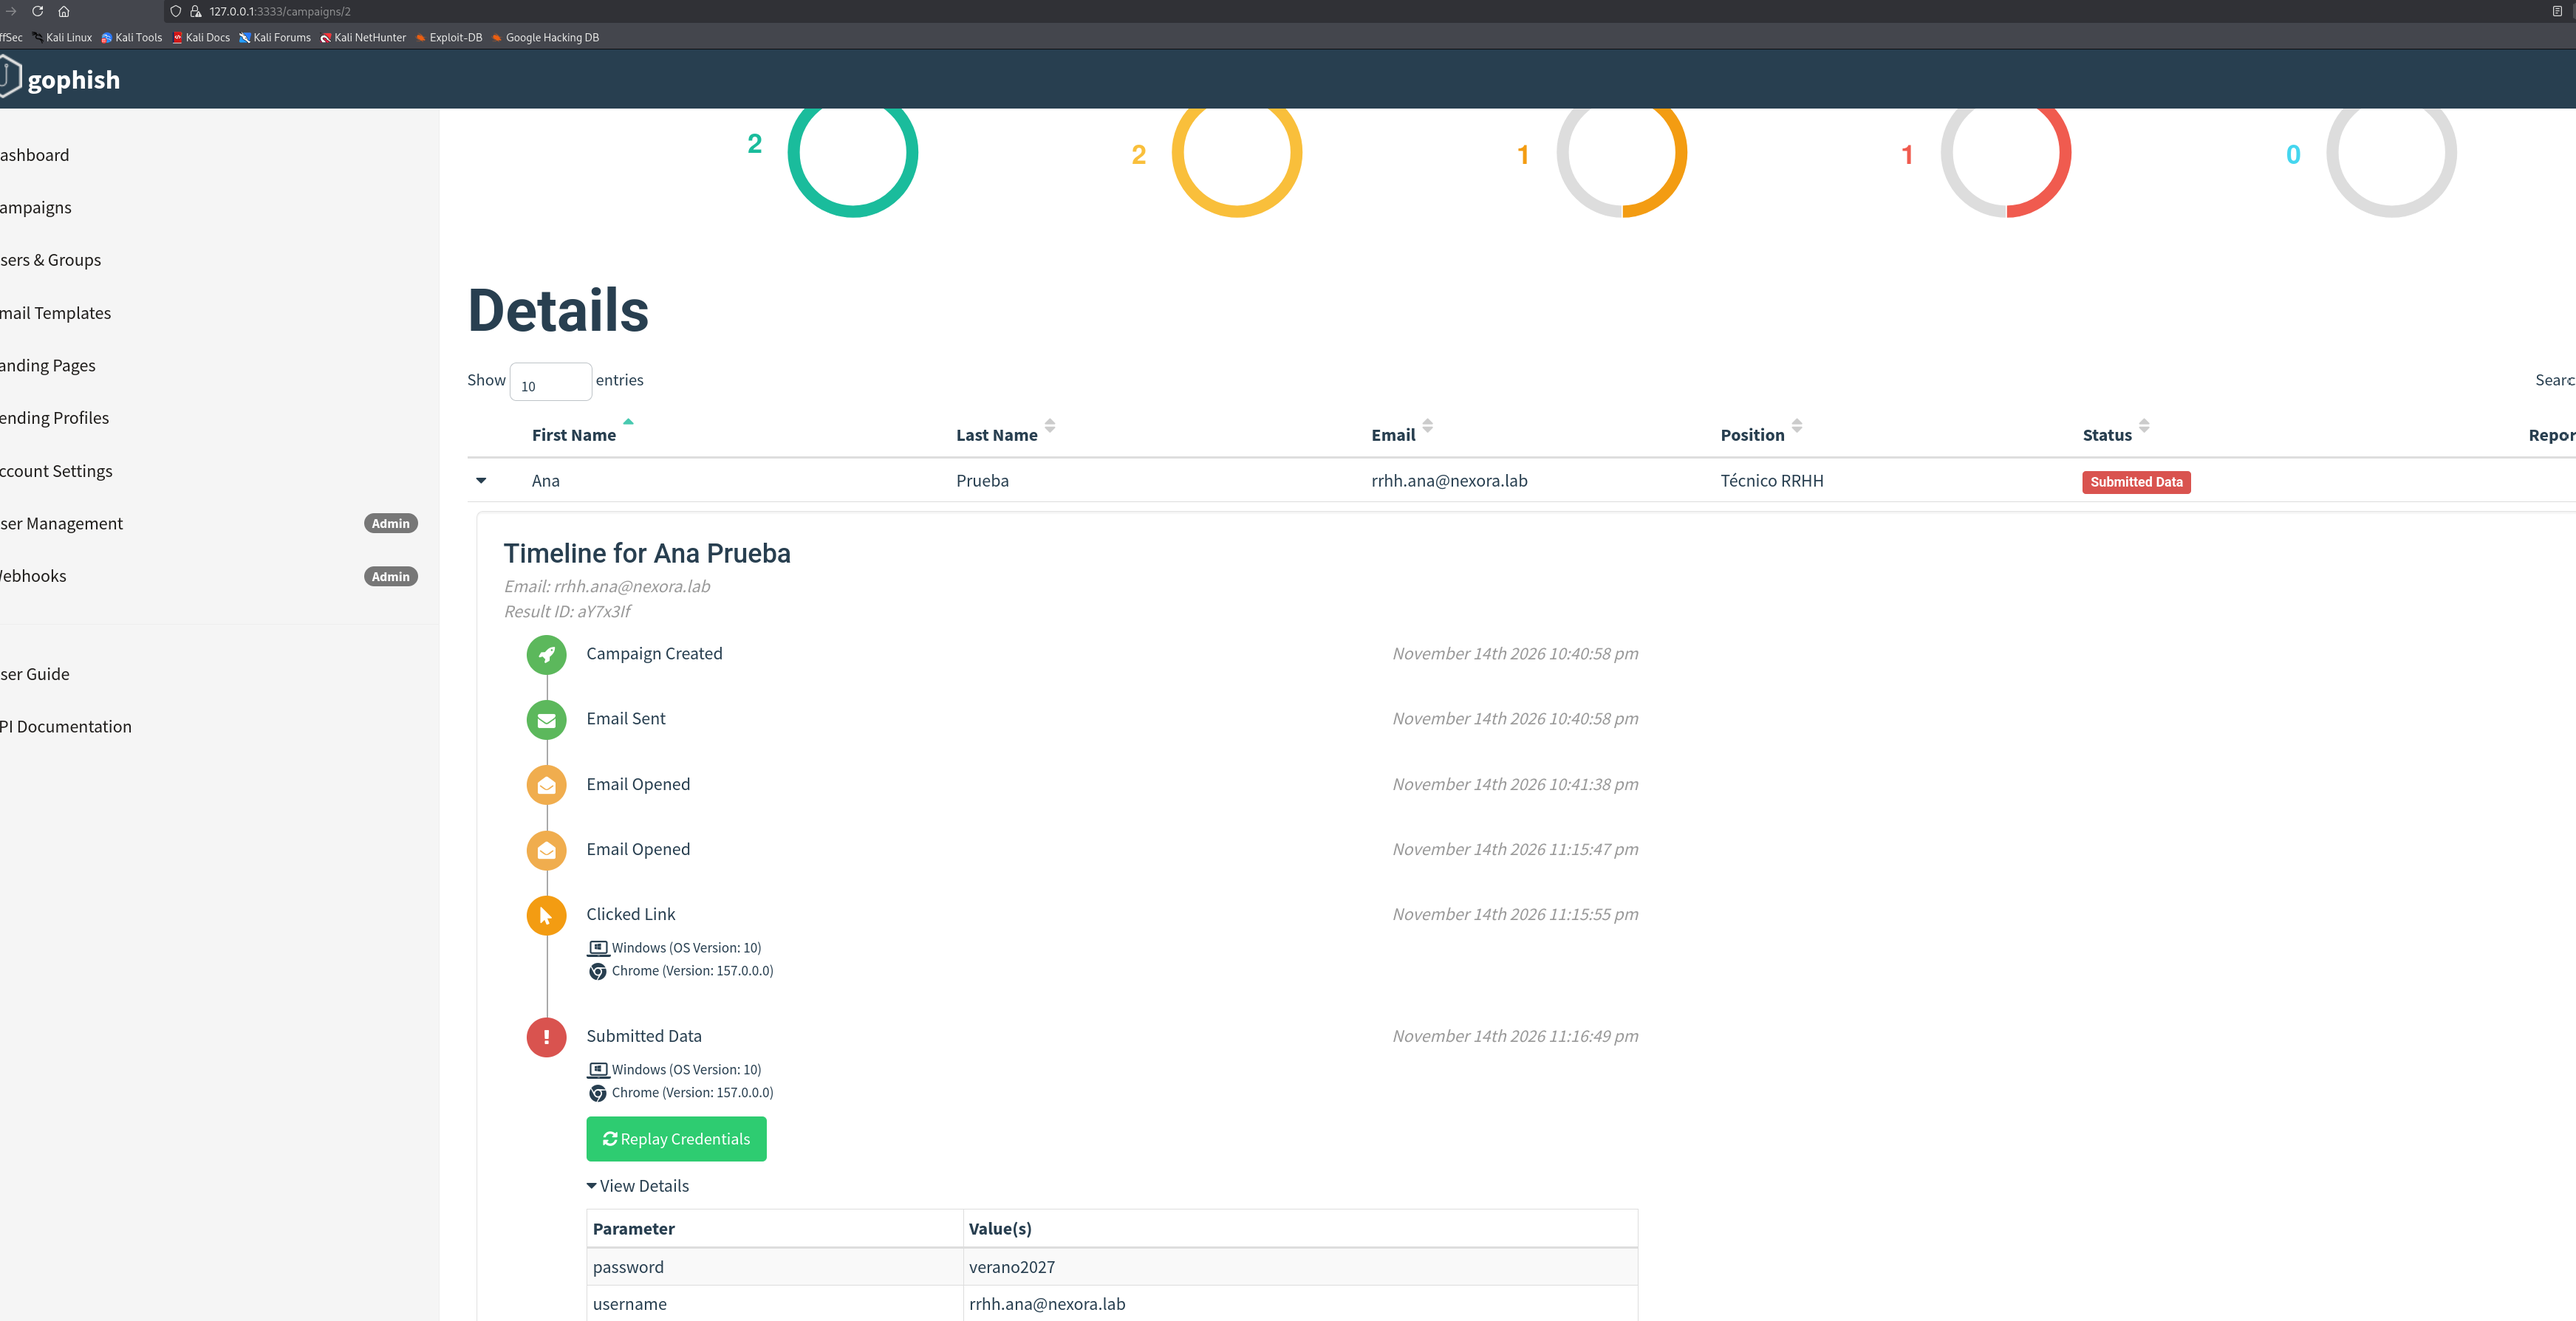
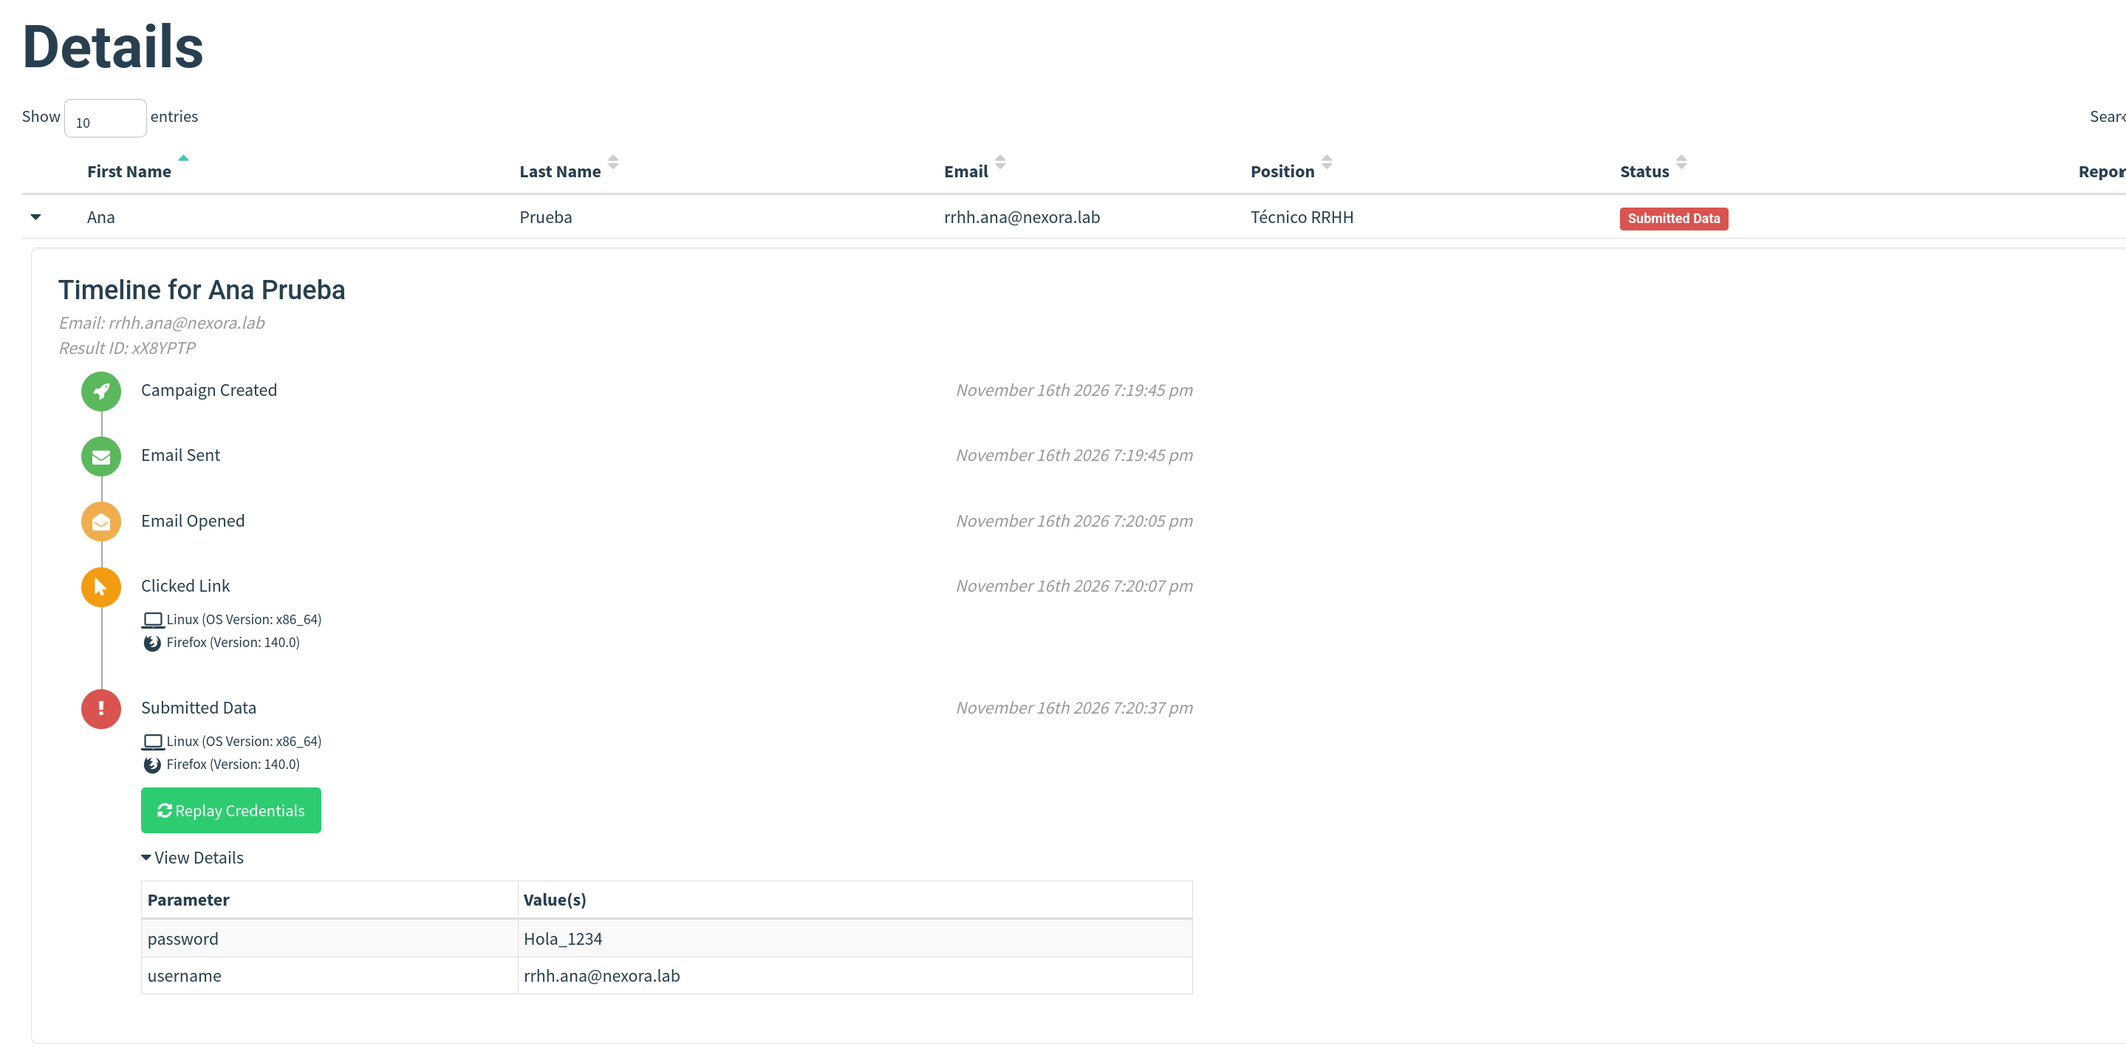
GoPhish: credencial robada = Hola_1234, coherente con el movimiento lateral (3.6)
- 3.1: la contraseña capturada pasa de verano2027 a Hola_1234, que es la misma
  que se reutiliza en el movimiento lateral (3.6). Cierra la incoherencia robo
  de credencial -> reutilizacion en el dominio.
- Nueva captura del embudo/timeline de GoPhish con Submitted Data: Hola_1234.
- Nota ampliada para enlazar explicitamente la credencial robada con su reuso.

Claude-Session: https://claude.ai/code/session_01BQj8koaesLRPHgKXyT3jg8

diff --git a/Incidentes en ciberseguridad/Trabajo práctico: Gestión de un incidente de ciberseguridad/readme.md b/Incidentes en ciberseguridad/Trabajo práctico: Gestión de un incidente de ciberseguridad/readme.md
@@ -231,10 +231,10 @@ La víctima introdujo sus credenciales, que quedaron capturadas en claro. GoPhis
 
 ```
 username: rrhh.ana@nexora.lab
-password: verano2027
+password: Hola_1234
 ```
 
-> **Nota.** La credencial mostrada es un valor **ficticio de demostración** introducido durante el simulacro; no corresponde a ninguna cuenta real. En términos de MITRE ATT&CK, esta fase combina **T1566.002** (*Spearphishing Link*, phishing con enlace) y **T1056.003** (*Web Portal Capture*, captura de credenciales en un portal web).
+> **Nota.** La credencial mostrada es un valor **ficticio de demostración** introducido durante el simulacro; no corresponde a ninguna cuenta real. Es, además, **la misma credencial (`rrhh.ana` / `Hola_1234`) que se reutiliza en el apartado 3.6** para autenticarse contra el controlador de dominio: así queda cerrada la cadena *robo de credencial → reutilización en el dominio*. En términos de MITRE ATT&CK, esta fase combina **T1566.002** (*Spearphishing Link*, phishing con enlace) y **T1056.003** (*Web Portal Capture*, captura de credenciales en un portal web).
 
 La siguiente captura muestra el embudo completo de la campaña para la víctima Ana Prueba, con el estado final **Submitted Data** y las credenciales capturadas en el detalle del evento:
 
